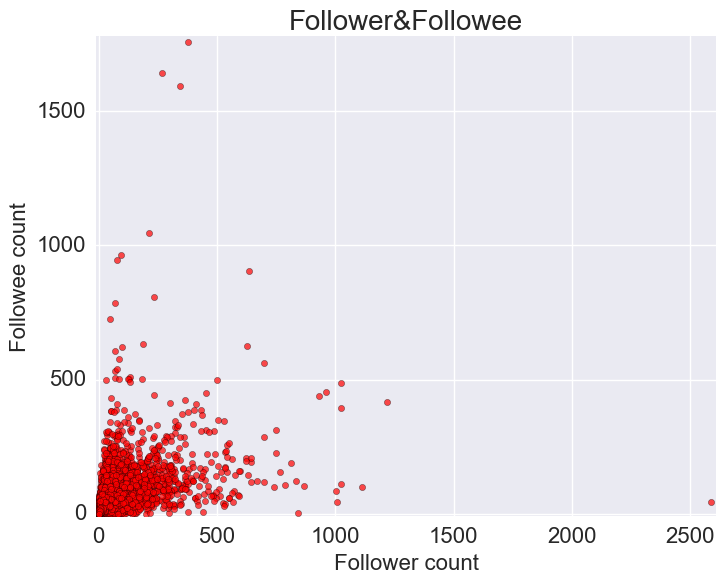
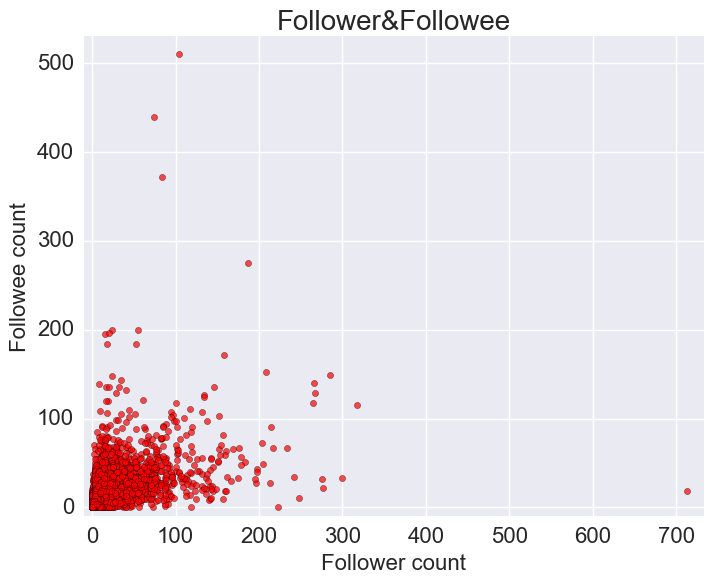
optimized visual module

diff --git a/visual/visualization/analysis.html b/visual/visualization/analysis.html
@@ -2,15 +2,15 @@
 <link rel='stylesheet' type='text/css' href='reportStyle.css'/></head>
 <body><div class='reportTitle'><div class='in'>Data Analysis</div></div>
 <div class='main'><div class='area1'>
-<div class='title'><h3>Data Files</h3></div><div class='text'>Rating Data: C:\Users\Yu\Desktop\RecQ\dataset\epinions\ratings.txt<br>Social Data: C:\Users\Yu\Desktop\RecQ\dataset\epinions\trusts.txt</div></div><div style='padding-top:20px'><center><img src='images/header2.png'/></center></div>
+<div class='title'><h3>Data Files</h3></div><div class='text'><b>Rating Data</b>: C:\Users\Yu\Desktop\RecQ\dataset\epinions\sample-ratings.txt<br><b>Social Data</b>: C:\Users\Yu\Desktop\RecQ\dataset\epinions\sample-trusts.txt</div></div><div style='padding-top:20px'><center><img src='images/header2.png'/></center></div>
 <div class='area1'><div class='title'><h3>Rating Data</h3></div>
-<div class='text'>Rating Scale: 1.0 2.0 3.0 4.0 5.0</br>User Count: 40163<br>Item Count: 139738<br>Record Count: 664823<br>Global Mean: 4.034</div>
+<div class='text'><b>Rating Scale</b>: 1.0 2.0 3.0 4.0 5.0</br><b>User Count</b>: 16142<br><b>Item Count</b>: 47204<br><b>Record Count</b>: 109880<br>Global Mean: 4.025</div>
 <center><div class='img'><img src='images/rh.png' width='640px' height='480px'/></div></center>
 <center><div class='img'><img src='images/rcu.png' width='640px' height='480px'/></div></center>
 <center><div class='img'><img src='images/rci.png' width='640px' height='480px'/></div></center>
 </div><div style='padding-top:20px'><center><img src='images/header2.png'/></center></div>
 <div class='area1'><div class='title'><h3>Social Data</h3></div>
-<div class='text'>User Count: 49287<br>Relation Count: 487182<br></div>
+<div class='text'><b>User Count</b>: 18906<br><b>Relation Count</b>: 113235<br></div>
 <center><div class='img'><img src='images/ff.png' width='640px' height='480px'/></div></center>
 <center><div class='img'><img src='images/fd1.png' width='640px' height='480px'/></div></center>
 <center><div class='img'><img src='images/fd2.png' width='640px' height='480px'/></div></center>

diff --git a/visual/display.py b/visual/display.py
@@ -56,15 +56,15 @@ class Display(object):
               "<div class='main'><div class='area1'>\n" \
               "<div class='title'><h3>Data Files</h3></div><div class='text'>"
         if self.conf.contains('ratings'):
-            html+="Rating Data: {rating}".format(rating = abspath(self.conf['ratings']))
+            html+="<b>Rating Data</b>: {rating}".format(rating = abspath(self.conf['ratings']))
         if self.conf.contains('social'):
-            html+="<br>Social Data: {social}".format(social = abspath(self.conf['social']))
+            html+="<br><b>Social Data</b>: {social}".format(social = abspath(self.conf['social']))
         html+="</div></div><div style='padding-top:20px'><center>" \
               "<img src='images/header2.png'/></center></div>\n"
         if self.conf.contains('ratings'):
             html+="<div class='area1'><div class='title'><h3>Rating Data</h3></div>\n"
-            html += "<div class='text'>Rating Scale: {scale}</br>".format(scale=' '.join([str(item) for item in self.dao.rScale]))
-            html += "User Count: {user}<br>Item Count: {item}<br>Record Count: {record}<br>Global Mean: {mean}</div>\n"\
+            html += "<div class='text'><b>Rating Scale</b>: {scale}</br>".format(scale=' '.join([str(item) for item in self.dao.rScale]))
+            html += "<b>User Count</b>: {user}<br><b>Item Count</b>: {item}<br><b>Record Count</b>: {record}<br><b>Global Mean</b>: {mean}</div>\n"\
                 .format(user = str(len(self.dao.user)),item=str(len(self.dao.item)),record = str(len(self.dao.trainingData)),
                         mean = str(round(denormalize(self.dao.globalMean,self.dao.rScale[-1],self.dao.rScale[0]),3)))
             html+="<center><div class='img'><img src='images/rh.png' width='640px' height='480px'/></div></center>\n"
@@ -74,7 +74,7 @@ class Display(object):
               "<img src='images/header2.png'/></center></div>\n"
         if self.conf.contains('social'):
             html += "<div class='area1'><div class='title'><h3>Social Data</h3></div>\n"
-            html += "<div class='text'>User Count: {user}<br>Relation Count: {relation}<br></div>\n" \
+            html += "<div class='text'><b>User Count</b>: {user}<br><b>Relation Count</b>: {relation}<br></div>\n" \
                 .format(user=str(len(self.sao.user)), relation=str(len(self.sao.relation)))
             html += "<center><div class='img'><img src='images/ff.png' width='640px' height='480px'/></div></center>\n"
             html += "<center><div class='img'><img src='images/fd1.png' width='640px' height='480px'/></div></center>\n"
